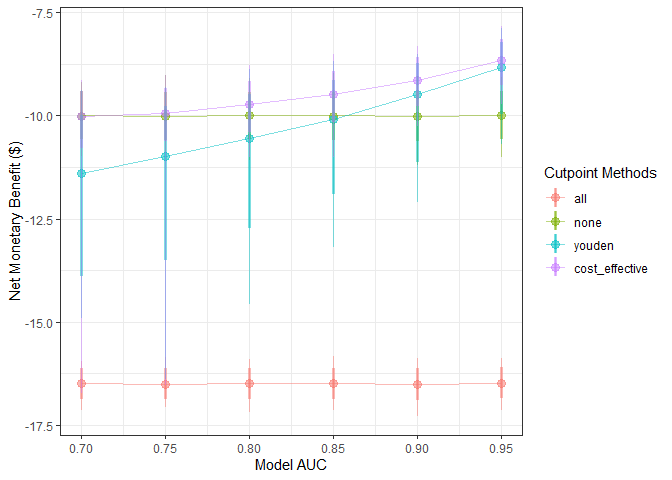
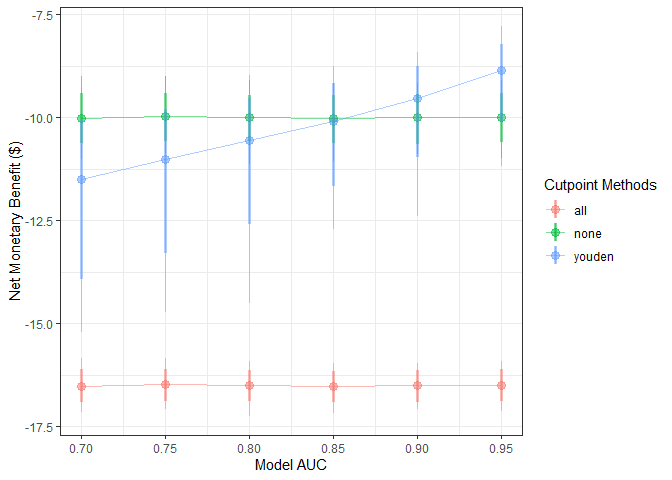
update README - remove plot details that are now in vignette

diff --git a/README.md b/README.md
@@ -42,14 +42,11 @@ first be defined.
 ``` r
 library(predictNMB)
 
-fx_nmb <- function() {
-  c(
-    "TP" = -75, # True positive
-    "FP" = -10, # False positive
-    "TN" = 0,  # True negative
-    "FN" = -100 # False negative
-  )
-}
+fx_nmb <- get_nmb_sampler(
+  outcome_cost = 100,
+  high_risk_group_treatment_effect = 0.35,
+  high_risk_group_treatment_cost = 10
+)
 
 fx_nmb()
 #>   TP   FP   TN   FN 
@@ -59,19 +56,19 @@ fx_nmb()
 Required arguments:
 
 -   `n_sims`: number of simulations to run. More simulations take
-    longer, but are more stable <br>
+    longer, but are more stable
 -   `event_rate`: event incidence rate, or the proportion of patients
-    experiencing the event <br>
+    experiencing the event
 -   `sim_auc`: vector of hypothetical AUCs; e.g. `seq(0.7, 0.95, 0.05)`
-    or `c(0.75, 0.80, 0.85)` <br>
+    or `c(0.75, 0.80, 0.85)`
 -   `n_valid`: number of samples the validation set draws within each
-    simulation (evaluating the NMB under each cutpoint) <br>
+    simulation (evaluating the NMB under each cutpoint)
 -   `fx_nmb_training`: function-defined vector used to get cutpoints on
-    the training set. Recommended to use constant values <br>
+    the training set. Recommended to use constant values
 -   `fx_nmb_evaluation`: function-defined vector used to get cutpoints
-    on the evaluation set. Recommended to use sampled values <br>
+    on the evaluation set. Recommended to use sampled values
 -   (Optional) Users can pass a cluster as the `cl` argument. If it is
-    passed, the simulations are run in parallel (faster). <br>
+    passed, the simulations are run in parallel (faster).
 
 ``` r
 library(parallel)
@@ -79,200 +76,55 @@ cl <- makeCluster(detectCores())
 sim_screen_obj <- screen_simulation_inputs(
   n_sims = 1000, n_valid = 10000, sim_auc = seq(0.7, 0.95, 0.05), event_rate = 0.1,
   fx_nmb_training = fx_nmb, fx_nmb_evaluation = fx_nmb,
-  cutpoint_methods = c("all", "none", "youden", "value_optimising"), cl = cl
+  cutpoint_methods = c("all", "none", "youden"), cl = cl
 )
 ```
 
-`plot()` can be used to generate plots of the many simulations.
+These simulations can be interpreted as a range of hypothetical
+situations under different levels of model performance within my
+specific healthcare setting. We can visualise how this change may affect
+preference between the model-guided strategy versus a treat-all or
+treat-non strategy.
+
+`plot()` on the object returned from this function to quickly inspect
+these trends.
 
 ``` r
 plot(sim_screen_obj)
-#> No value for 'x_axis_var' given.
-#> Screening over sim_auc by default
 ```
 
 <img src="man/figures/README-unnamed-chunk-4-1.png" width="100%" />
 
-The plot method includes additional arguments to rename the methods
-using a named vector. It can also be used to visualise cutpoints or the
-Incremental Net Monetary Benefit (INB) when there’s a known reference
-strategy.
+Here, we are visualising many simulations under different inputs. If we
+want to inspect just a single set of inputs, say when the model AUC was
+0.9, we can run that simulation alone using `do_nmb_sim()`, or access it
+from our existing screen.
 
 ``` r
-plot(
-  sim_screen_obj, 
-  rename_vector=c("Treat All" = "all", "Treat None" = "none", "Youden Index" = "youden", "Value-Optimising" = "value_optimising")
-)
-#> No value for 'x_axis_var' given.
-#> Screening over sim_auc by default
-```
-
-<img src="man/figures/README-unnamed-chunk-5-1.png" width="100%" />
-
-``` r
-plot(
-  sim_screen_obj, 
-  rename_vector=c("Treat All" = "all", "Treat None" = "none", "Youden Index" = "youden", "Value-Optimising" = "value_optimising"),
-  what="inb",
-  inb_ref_col="Treat All"
-)
-#> No value for 'x_axis_var' given.
-#> Screening over sim_auc by default
-```
-
-<img src="man/figures/README-unnamed-chunk-5-2.png" width="100%" />
-
-By default, the median (dot), 95% interval (thick vertical line), range
-(skinny vertical line), and lines between points are shown. All except
-the dots can be optionally turned off or on, and the width of the
-interval can be controlled with `ci`.
-
-``` r
-plot(
-  sim_screen_obj,
-  plot_line = FALSE,
-  plot_range = FALSE,
-  plot_ci = 0.8
-)
-#> No value for 'x_axis_var' given.
-#> Screening over sim_auc by default
-```
-
-<img src="man/figures/README-unnamed-chunk-6-1.png" width="100%" />
-
-``` r
-plot(
-  sim_screen_obj,
-  plot_line = TRUE,
-  plot_range = FALSE,
-  plot_ci = 0
-)
-#> No value for 'x_axis_var' given.
-#> Screening over sim_auc by default
-```
-
-<img src="man/figures/README-unnamed-chunk-6-2.png" width="100%" />
-
-The simulations for a given set of inputs can be accessed from our
-`predictNMBscreen` object (`sim_screen_obj`). These are the same as the
-output from `do_nmb_sim()` and have their own methods as well.
-
-``` r
-sim_screen_obj$simulations
-#> [[1]]
-#> predictNMB object
-#> 
-#> Training data sample size:  189
-#> Minimum number of events in training sample:  19
-#> Evaluation data sample size:  10000
-#> Number of simulations:  1000
-#> Simulated AUC:  0.7
-#> Simulated event rate:  0.1
-#> [[2]]
-#> predictNMB object
-#> 
-#> Training data sample size:  139
-#> Minimum number of events in training sample:  14
-#> Evaluation data sample size:  10000
-#> Number of simulations:  1000
-#> Simulated AUC:  0.75
-#> Simulated event rate:  0.1
-#> [[3]]
-#> predictNMB object
-#> 
-#> Training data sample size:  139
-#> Minimum number of events in training sample:  14
-#> Evaluation data sample size:  10000
-#> Number of simulations:  1000
-#> Simulated AUC:  0.8
-#> Simulated event rate:  0.1
-#> [[4]]
-#> predictNMB object
-#> 
-#> Training data sample size:  139
-#> Minimum number of events in training sample:  14
-#> Evaluation data sample size:  10000
-#> Number of simulations:  1000
-#> Simulated AUC:  0.85
-#> Simulated event rate:  0.1
-#> [[5]]
-#> predictNMB object
-#> 
-#> Training data sample size:  139
-#> Minimum number of events in training sample:  14
-#> Evaluation data sample size:  10000
-#> Number of simulations:  1000
-#> Simulated AUC:  0.9
-#> Simulated event rate:  0.1
-#> [[6]]
-#> predictNMB object
-#> 
-#> Training data sample size:  139
-#> Minimum number of events in training sample:  14
-#> Evaluation data sample size:  10000
-#> Number of simulations:  1000
-#> Simulated AUC:  0.95
-#> Simulated event rate:  0.1
-sim_obj <- sim_screen_obj$simulations[[1]]
-
-sim_obj
-#> predictNMB object
-#> 
-#> Training data sample size:  189
-#> Minimum number of events in training sample:  19
-#> Evaluation data sample size:  10000
-#> Number of simulations:  1000
-#> Simulated AUC:  0.7
-#> Simulated event rate:  0.1
-```
-
-Here, using the `predictNMBsim` object, the plot shows the median as the
-solid bar within the distribution and the light blue portion of the
-distribution is the 95% interval (level can be changed using the `ci`
-argument).
-
-``` r
-plot(sim_obj)
-```
-
-<img src="man/figures/README-unnamed-chunk-8-1.png" width="100%" />
-
-``` r
-plot(sim_obj, ci=0.50)
-```
-
-<img src="man/figures/README-unnamed-chunk-8-2.png" width="100%" />
-
-The plot methods for both the `predictNMBscreen` and `predictNMBsim`
-objects have almost the same usage of arguments.
-
-``` r
-plot(
-  sim_obj, 
-  rename_vector=c("Treat All" = "all", "Treat None" = "none", "Youden Index" = "youden", "Value-Optimising" = "value_optimising")
+single_sim_obj <- do_nmb_sim(
+  n_sims = 1000, n_valid = 10000, sim_auc = 0.9, event_rate = 0.1,
+  fx_nmb_training = fx_nmb, fx_nmb_evaluation = fx_nmb,
+  cutpoint_methods = c("all", "none", "youden"), cl = cl
 )
 ```
 
-<img src="man/figures/README-unnamed-chunk-9-1.png" width="100%" />
-
 ``` r
-plot(
-  sim_obj, 
-  rename_vector=c("Treat All" = "all", "Treat None" = "none", "Youden Index" = "youden", "Value-Optimising" = "value_optimising"),
-  what="inb",
-  inb_ref_col="Treat All"
-)
+single_sim_obj <- sim_screen_obj$simulations[[6]]
 ```
 
-<img src="man/figures/README-unnamed-chunk-9-2.png" width="100%" />
+When plotting a single set of simulation inputs, we see the
+distributions of the NMB across all simulations under each strategy.
+
+``` r
+plot(single_sim_obj)
+```
+
+<img src="man/figures/README-unnamed-chunk-7-1.png" width="100%" />
 
 ## Further reading
 
-The vignette, Introduction to predictNMB, is available here (insert
-link)
-
-## Related work
-
-This R package is based on previous work on value-optimising cutpoints
-for the economic evaluation of clinical prediction models. It can be
-accessed here (insert link).
+The introduction to `predictNMB` vignette is available
+[here](https://rwparsons.github.io/predictNMB/articles/introduction-to-predictNMB.html)
+and vignette on plotting and making summary tables from the simulations
+is
+[here](https://rwparsons.github.io/predictNMB/articles/summarising-results-with-predictNMB.html)
